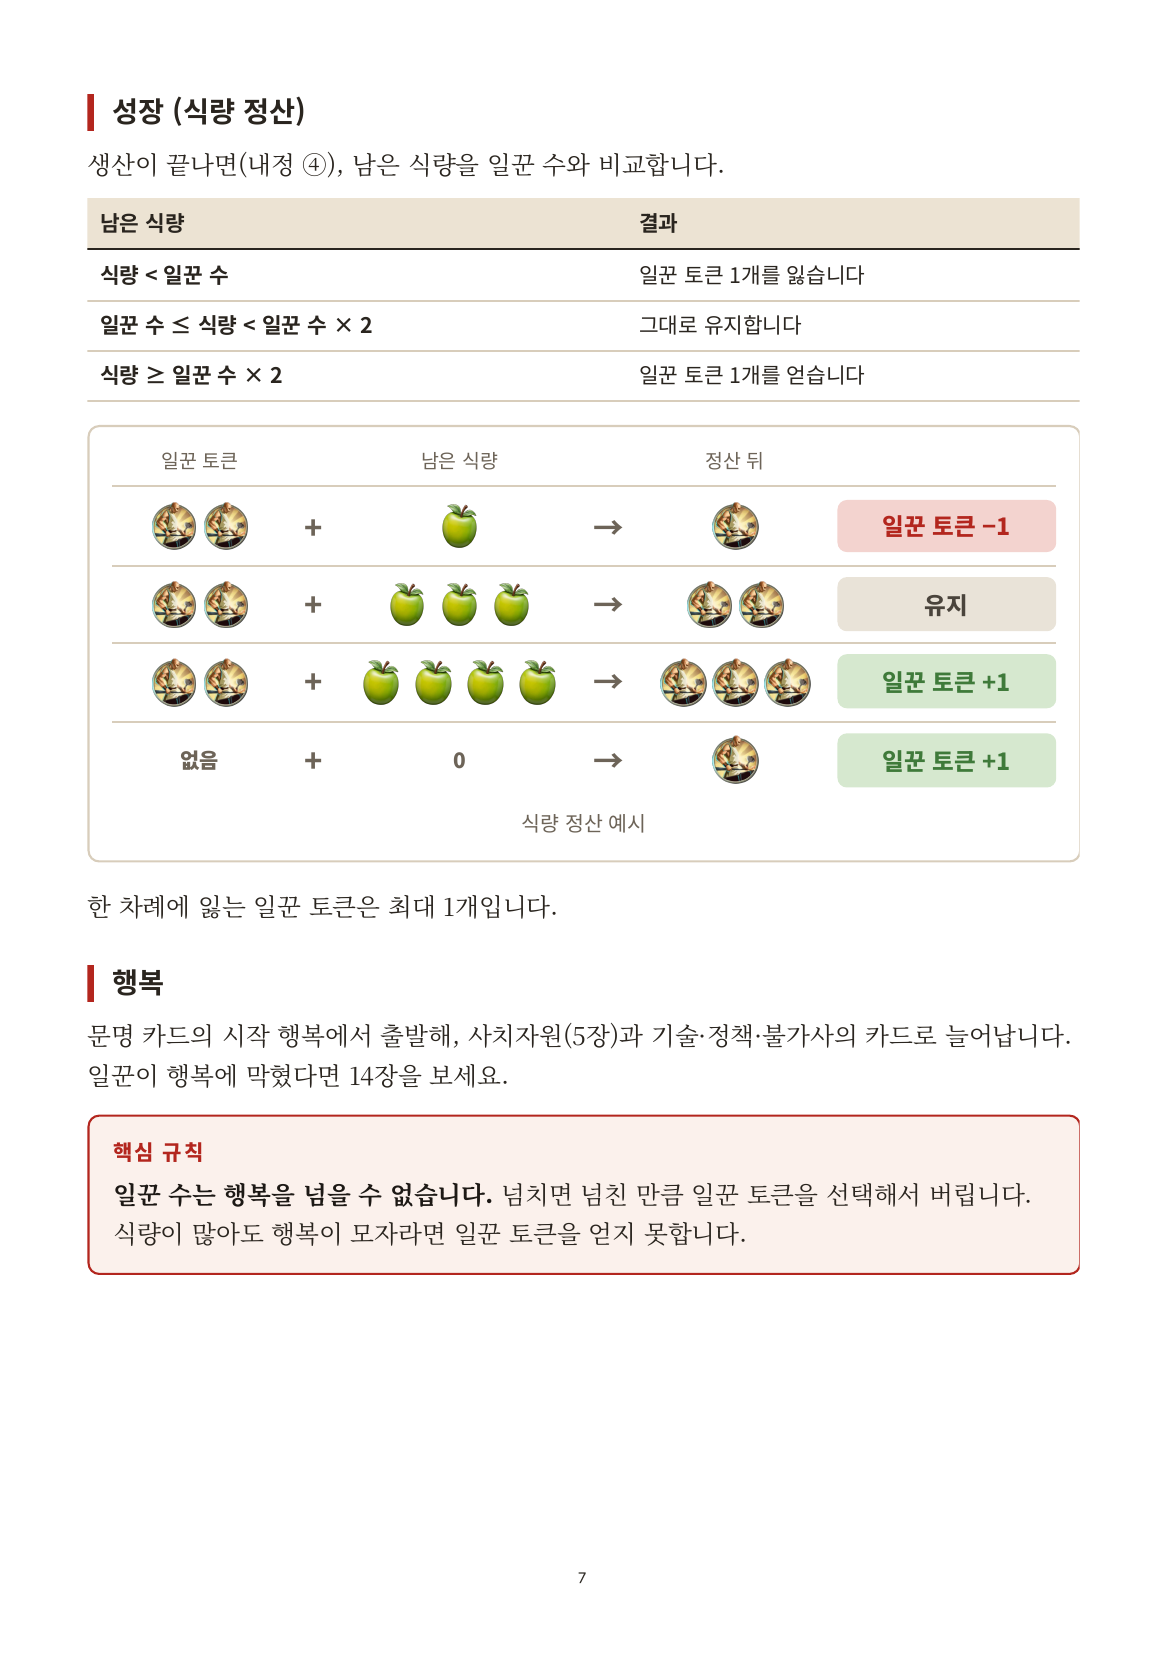
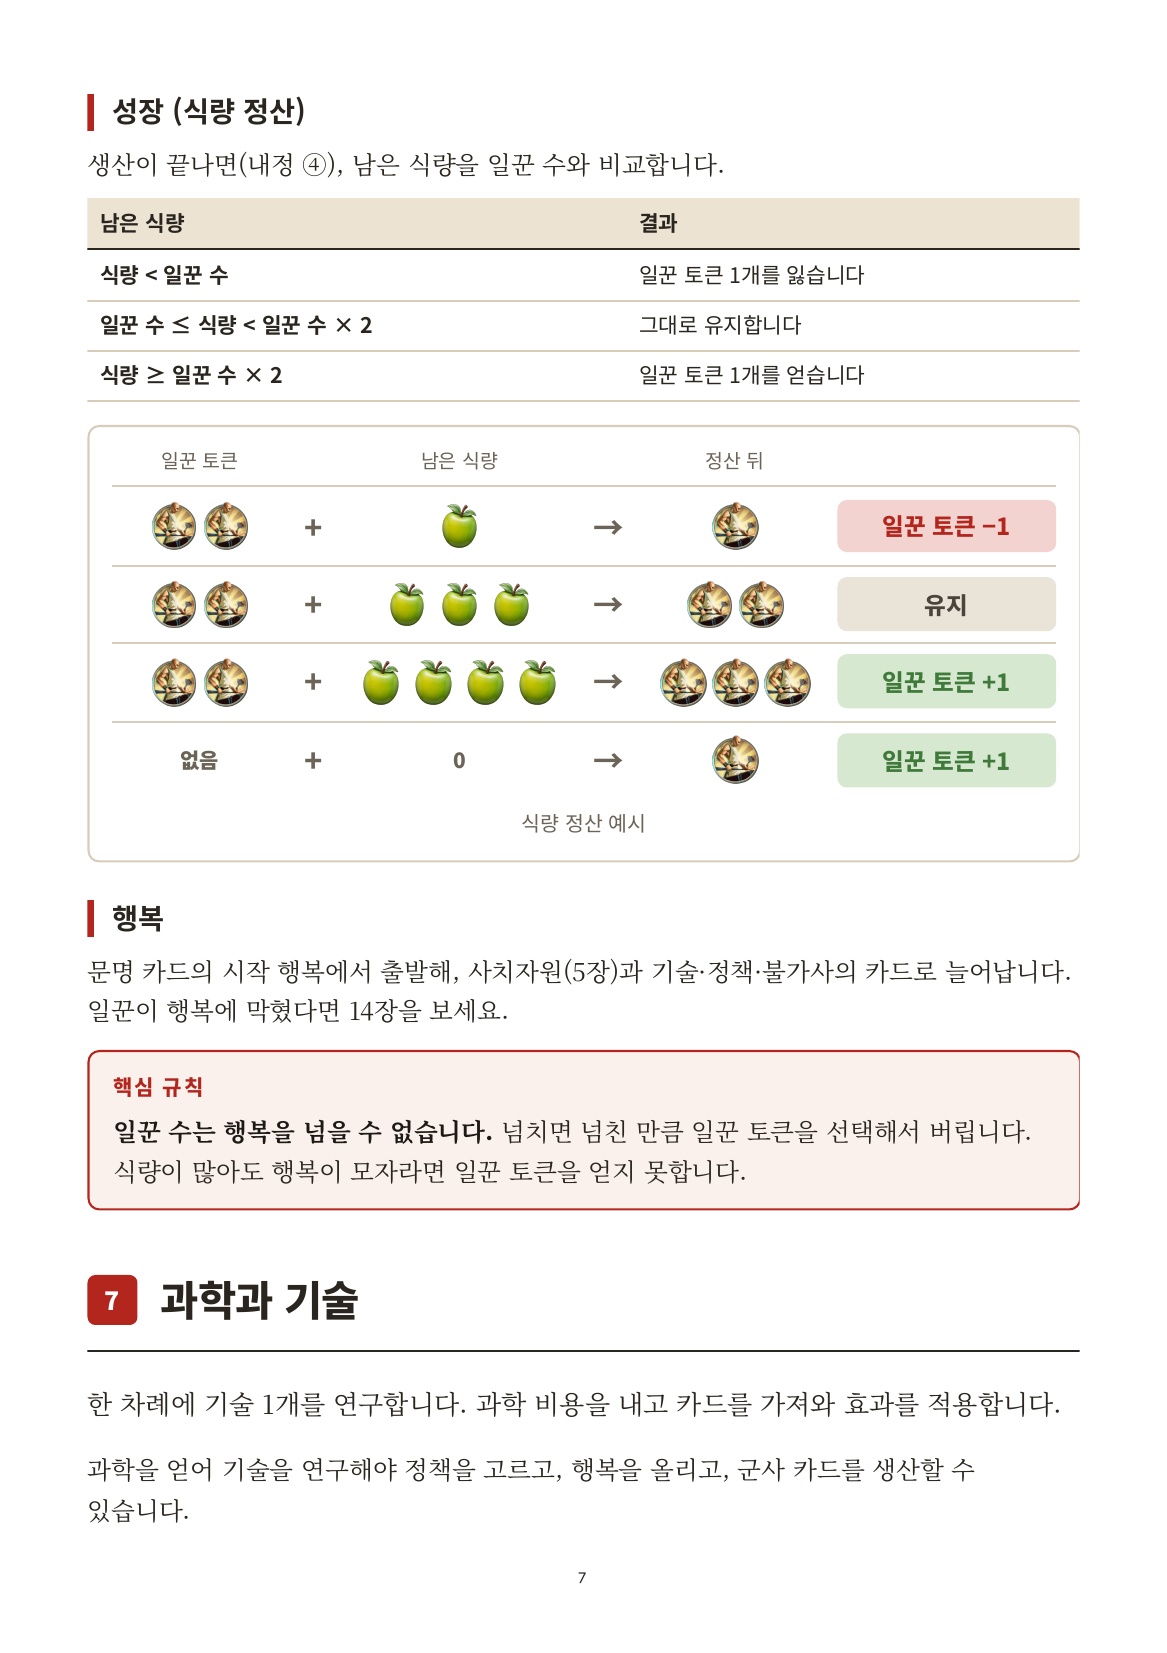
규칙서 6장: '한 차례에 잃는 일꾼 토큰은 최대 1개입니다' 삭제
Claude-Session: https://claude.ai/code/session_01LEwiRiXRJPjckZxHM1aEbm

diff --git a/docs/rulebook/source/part1.html b/docs/rulebook/source/part1.html
@@ -237,7 +237,6 @@
     <figcaption>식량 정산 예시</figcaption>
   </figure>
 
-  <p>한 차례에 잃는 일꾼 토큰은 최대 1개입니다.</p>
 
   <h3>행복</h3>
   <p>문명 카드의 시작 행복에서 출발해, 사치자원(5장)과 기술·정책·불가사의 카드로 늘어납니다. 일꾼이 행복에 막혔다면 14장을 보세요.</p>
